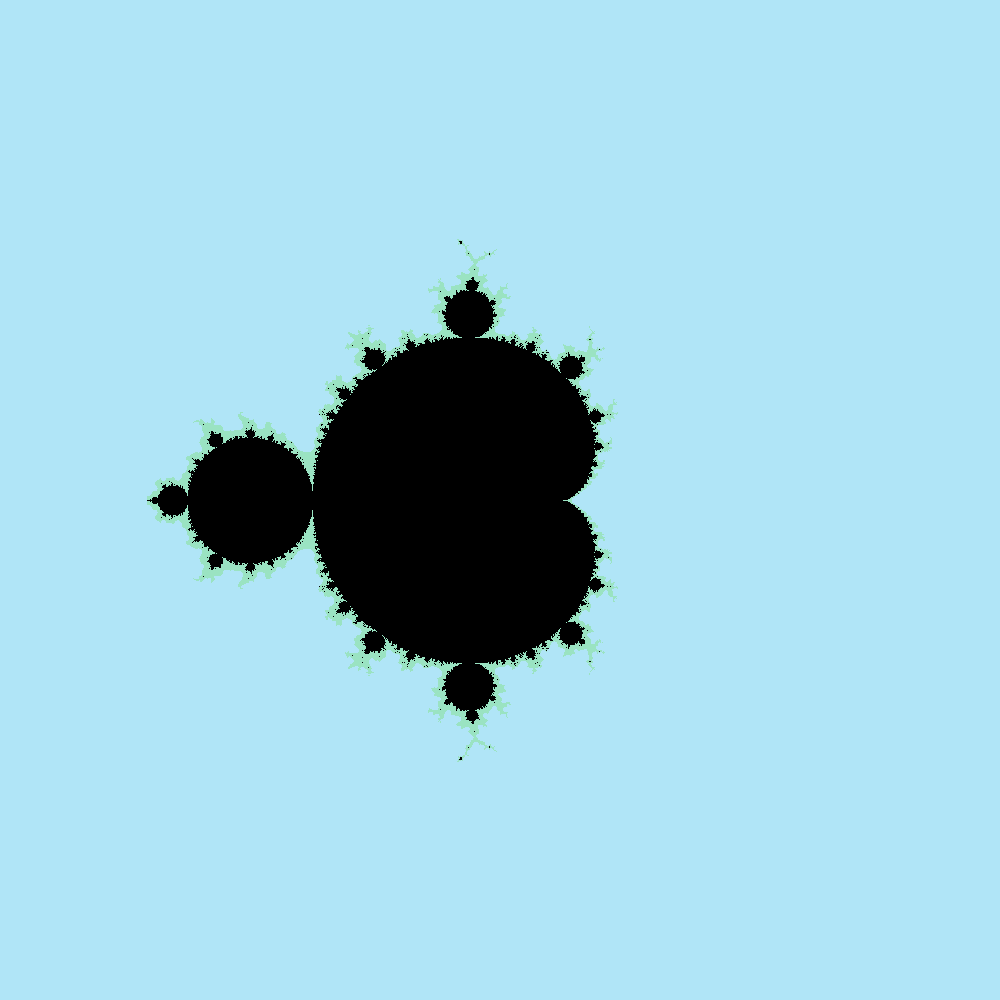
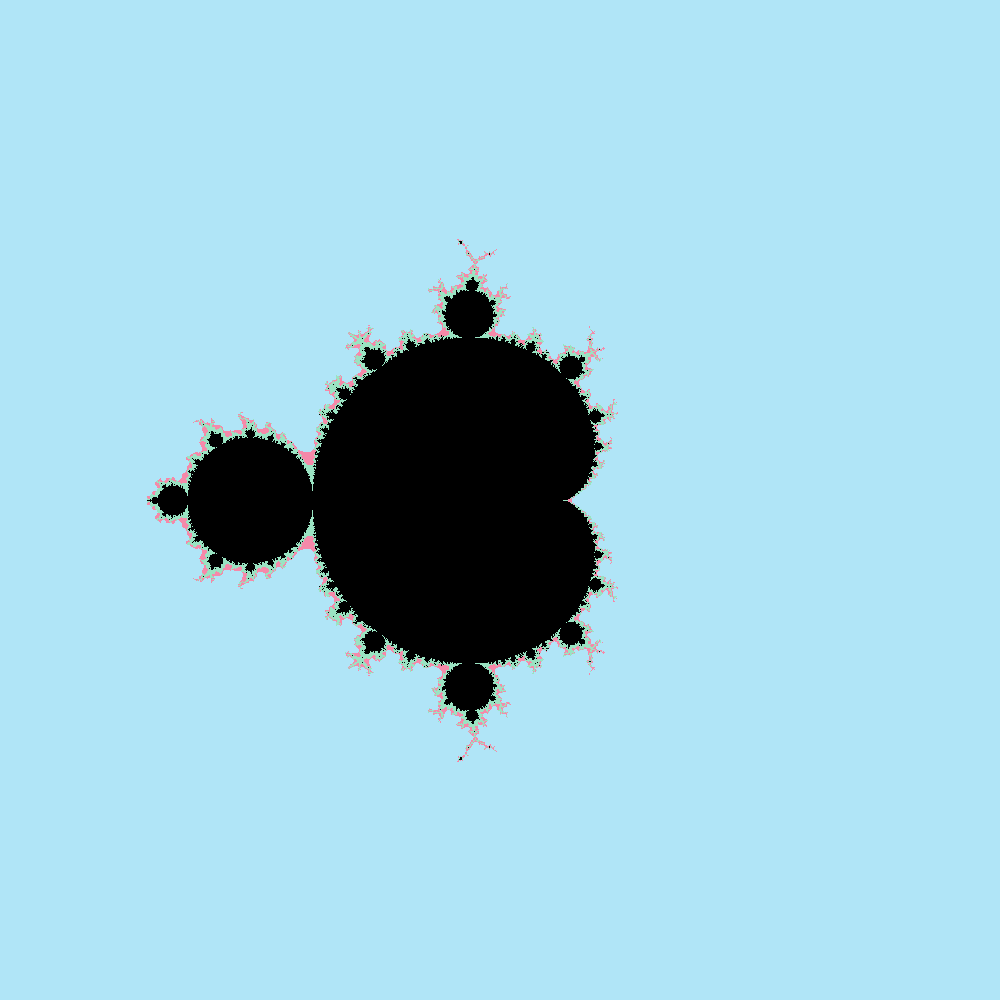
Add another color, and improve some names.

diff --git a/mandelbrot.c b/mandelbrot.c
@@ -46,18 +46,18 @@ coords_for_pixel(size_t i, size_t j)
 }
 
 static size_t
-is_in_mandelbrot_set(struct ComplexPoint rp)
+count_escape_time(struct ComplexPoint rp)
 {
     complex double z =  0.0 + I *  0.0;
     complex double c = rp.x + I * rp.y;
 
     complex double temp;
 
-    for (size_t iteration = 0; iteration < MAXIMUM_ITERATIONS; iteration++) {
+    for (size_t escape_time = 0; escape_time < MAXIMUM_ITERATIONS; escape_time++) {
         temp = cpow(z, 2);
 
         if (cabs(temp) > 2)
-            return iteration;
+            return escape_time;
 
         z = temp + c;
     }
@@ -74,16 +74,19 @@ draw_something()
     int black = gdImageColorAllocate(im,   0,   0,   0);
     int blue  = gdImageColorAllocate(im, 176, 229, 247);
     int green = gdImageColorAllocate(im, 154, 227, 194);
+    int red   = gdImageColorAllocate(im, 245, 137, 169);
 
     color_all_pixels(im, white);
     
     for (size_t i = 0; i < WIDTH; i++) {
         for (size_t j = 0; j < HEIGHT; j++) {
-            size_t iterations = is_in_mandelbrot_set(coords_for_pixel(i, j));
-            if (iterations == 0)
+            size_t escape_time = count_escape_time(coords_for_pixel(i, j));
+            if (escape_time == 0)
                 gdImageSetPixel(im, i, j, black);
-            else if (iterations <= (MAXIMUM_ITERATIONS / 7))
+            else if (escape_time <= (MAXIMUM_ITERATIONS / 7))
                 gdImageSetPixel(im, i, j, blue);
+            else if (escape_time <= (MAXIMUM_ITERATIONS / 5))
+                gdImageSetPixel(im, i, j, red);
             else
                 gdImageSetPixel(im, i, j, green);
         }
